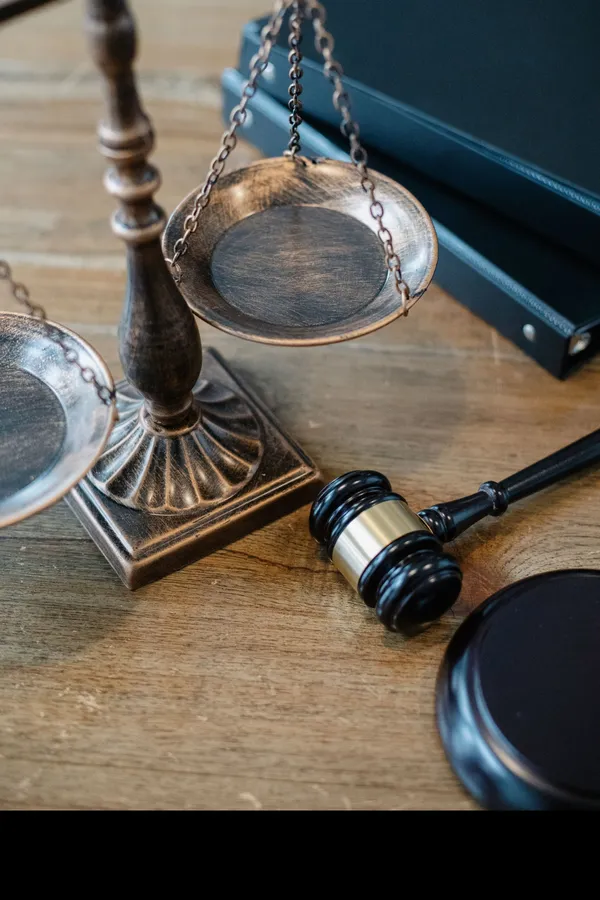
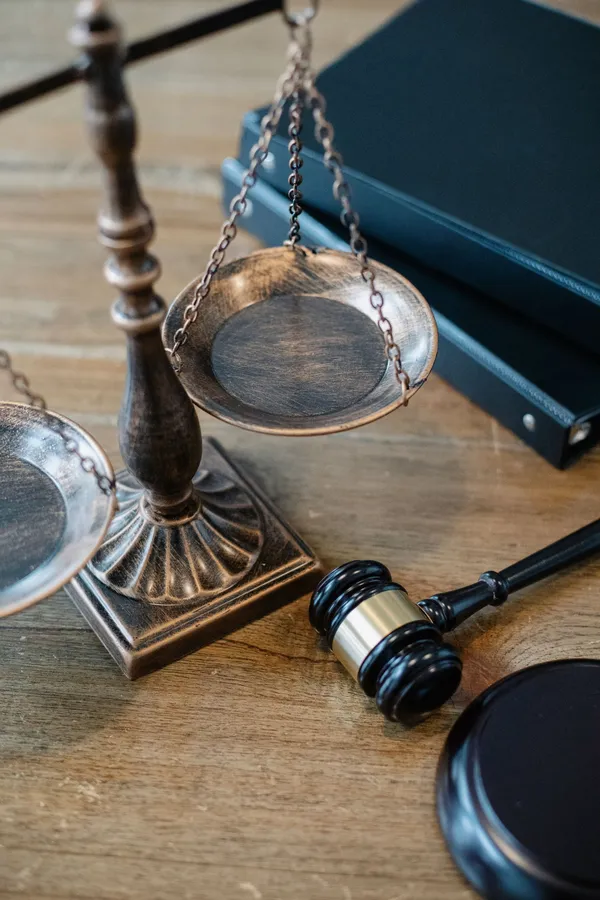
Add files via upload

diff --git a/alzate-abogados/public/assets/css/styles.css b/alzate-abogados/public/assets/css/styles.css
@@ -16,12 +16,12 @@
   --text:#303630;
   --muted:#58615a;
   --gold:#B5A078;
-  --emerald:#0B7A52;
-  --emerald-2:#0A6B48;
-  --sun:#F2C45A;
-  --sun-2:#E3B04B;
-  --mint:#DDF2E6;
-  --cream:#FBF1D6;
+  --emerald:#0E6F66;
+  --emerald-2:#0B5F57;
+  --sun:#E0B672;
+  --sun-2:#D2A25E;
+  --mint:#DDEFEA;
+  --cream:#F6EEDF;
   --line:rgba(14,45,31,.14);
   --focus:#0E2D1F;
 
@@ -127,7 +127,7 @@ main:focus{outline:none}
 @media (max-width:420px){.brand__tag{display:none}.brand__name{font-size:1.35rem}.brand__mark{width:46px}}
 
 /* ---------- Hero ---------- */
-.hero{position:relative;overflow:hidden;background:radial-gradient(120% 100% at 85% 0%,#17503a 0%,var(--green) 55%,var(--ink) 100%);color:var(--ivory);padding-block:clamp(48px,7vw,96px) clamp(64px,8vw,112px)}
+.hero{position:relative;overflow:hidden;background:radial-gradient(120% 100% at 85% 0%,#0e5a52 0%,var(--green) 55%,var(--ink) 100%);color:var(--ivory);padding-block:clamp(48px,7vw,96px) clamp(64px,8vw,112px)}
 .hero__bg{position:absolute;inset:0;pointer-events:none}
 .hero__bg::before,.hero__bg::after{content:"";position:absolute;border:1px solid rgba(181,160,120,.22);border-bottom:0;border-radius:999px 999px 0 0}
 .hero__bg::before{width:720px;height:820px;right:-120px;bottom:-40px}
@@ -299,7 +299,7 @@ main:focus{outline:none}
 .disclaimer{margin-top:26px;font-size:.88rem;color:var(--muted)}
 
 /* Llamado final */
-.cta{position:relative;overflow:hidden;background:radial-gradient(90% 140% at 15% 0%,#17503a,var(--green) 60%);color:var(--ivory);padding-block:clamp(72px,10vw,132px);text-align:center}
+.cta{position:relative;overflow:hidden;background:radial-gradient(90% 140% at 15% 0%,#0e5a52,var(--green) 60%);color:var(--ivory);padding-block:clamp(72px,10vw,132px);text-align:center}
 .cta__mark{position:absolute;right:-60px;bottom:-70px;width:min(520px,70vw);opacity:.07;pointer-events:none}
 .cta__inner{position:relative;max-width:820px}
 .cta h2{color:#fff}
@@ -356,7 +356,7 @@ main:focus{outline:none}
 .section--emerald :focus-visible{outline-color:#fff}
 
 /* Hero */
-.hero{background:radial-gradient(110% 120% at 90% 0%,#0f7a52 0%,#0c4a33 45%,var(--ink) 100%);padding-block:clamp(36px,5vw,64px) clamp(44px,6vw,80px)}
+.hero{background:radial-gradient(110% 120% at 90% 0%,#0e6f66 0%,#0a4a45 45%,var(--ink) 100%);padding-block:clamp(36px,5vw,64px) clamp(44px,6vw,80px)}
 .hero h1{font-size:clamp(2.3rem,4.4vw,3.6rem);margin-bottom:.3em}
 .hero__specialty{font-family:var(--serif);font-weight:600;font-size:clamp(1.6rem,3vw,2.4rem);line-height:1.1;color:var(--sun);margin:0 0 .6em}
 .chips{list-style:none;display:flex;flex-wrap:wrap;gap:10px;margin:0 0 22px}
@@ -427,7 +427,7 @@ main:focus{outline:none}
 @media (max-width:900px){.family{grid-template-columns:1fr}}
 .secondary{grid-template-columns:1fr 1fr}
 .card--cream{background:var(--cream);border-color:rgba(181,160,120,.5)}
-.card--mint{background:var(--mint);border-color:rgba(11,122,82,.25)}
+.card--mint{background:var(--mint);border-color:rgba(14,111,102,.25)}
 .card--cream .card__icon,.card--mint .card__icon{background:var(--emerald);color:#fff}
 @media (max-width:760px){.secondary{grid-template-columns:1fr}}
 
@@ -453,11 +453,11 @@ main:focus{outline:none}
 @media (max-width:900px){.faqwrap{grid-template-columns:1fr}.faqaside{position:static}}
 
 /* Orientación y llamado final */
-.topic a,.topic--soon{border-bottom-color:rgba(11,122,82,.3)}
-.cta{padding-block:clamp(48px,7vw,88px);background:radial-gradient(90% 140% at 15% 0%,#0f7a52,var(--green) 70%)}
+.topic a,.topic--soon{border-bottom-color:rgba(14,111,102,.3)}
+.cta{padding-block:clamp(48px,7vw,88px);background:radial-gradient(90% 140% at 15% 0%,#0e6f66,var(--green) 70%)}
 
 /* Páginas de servicio */
-.page-hero{background:radial-gradient(110% 140% at 90% 0%,#0f7a52,#0c4a33 55%,var(--ink))}
+.page-hero{background:radial-gradient(110% 140% at 90% 0%,#0e6f66,#0a4a45 55%,var(--ink))}
 .page-hero__row{display:flex;gap:20px;align-items:center}
 .page-hero__icon{flex:none;display:grid;place-items:center;width:84px;height:84px;border-radius:999px 999px 16px 16px;background:var(--sun);color:var(--ink)}
 .page-hero__cta{margin-top:22px}
@@ -475,3 +475,14 @@ main:focus{outline:none}
 @media (max-width:1180px){.nav__toggle{display:inline-flex}.nav__list{position:absolute;left:0;right:0;top:100%;flex-direction:column;align-items:stretch;gap:0;background:#fff;border-bottom:1px solid var(--line);padding:8px var(--gutter) 22px;box-shadow:0 24px 40px -24px rgba(10,34,23,.45);display:none}.nav__list.is-open{display:flex}.nav__list a:not(.btn){padding:14px 4px;border-bottom:1px solid var(--line);font-size:1.05rem}.nav__list a:not(.btn)::after{display:none}.nav__cta{margin:16px 0 0}.nav__cta .btn{width:100%}}
 .values__photo img{object-position:50% 50%}
 .since{align-items:center}.since__year{font-size:3.6rem;color:var(--emerald)}
+
+.hero .collage{width:min(100%,440px);padding-bottom:0}
+.hero .collage__main{width:100%}
+.dotpic{position:absolute;border-radius:50%;object-fit:cover;border:4px solid var(--sun);box-shadow:var(--shadow);background:#fff}
+.cta__inner{position:relative}
+.section>.container,.section--tight>.container{position:relative}
+.head-dot{display:none}
+@media (min-width:900px){.head-dot{display:block;width:120px;height:120px;right:0;top:0}}
+.cta .dotpic{width:130px;height:130px;left:6%;top:18%}
+.cta .dotpic+.dotpic{left:auto;right:6%;top:auto;bottom:14%}
+@media (max-width:1000px){.cta .dotpic{display:none}}
